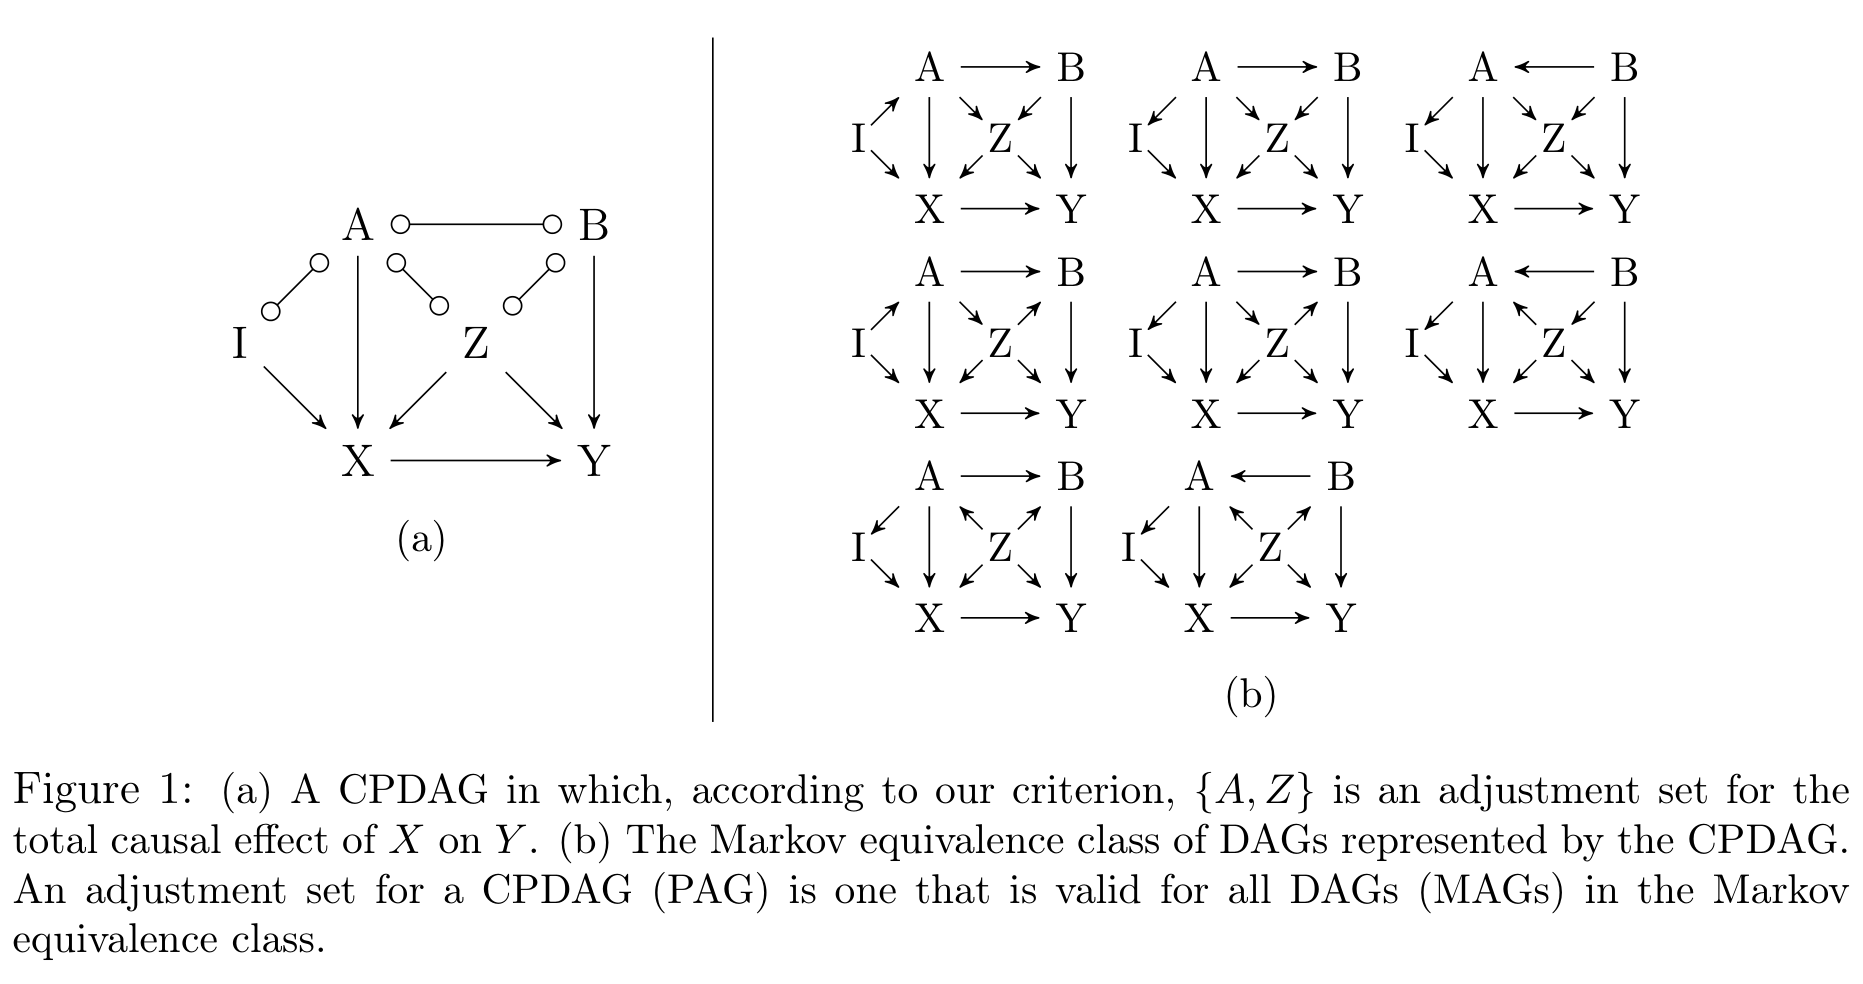
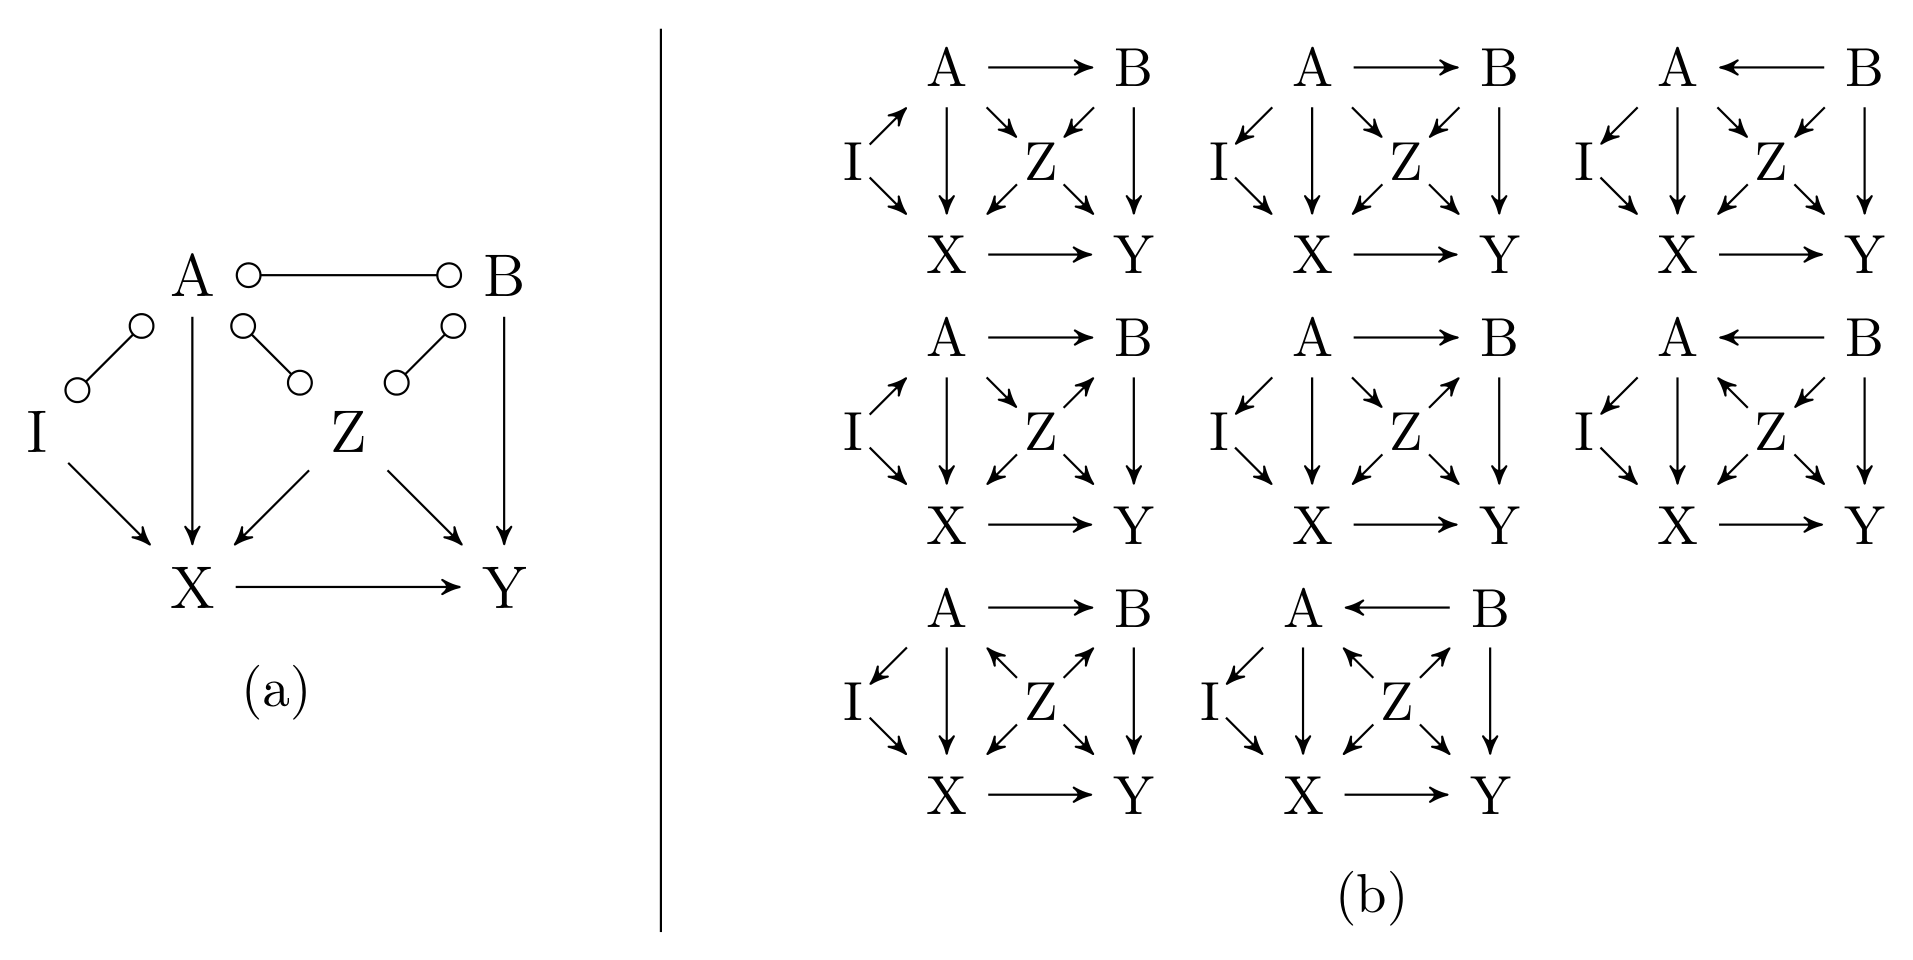
Re-crop figures in [Paper Review] Complete Graphical Characterization of Adjustment Sets
All 12 figures had been cropped with the paper's "Figure N:" caption text
underneath, which duplicated the post's own captions. Each is re-cropped
to the figure alone under the same filename. Figures 5 and 8, previously
about 830px wide, are re-extracted from the vector source at about
1800px. index.qmd is unchanged.

Every crop was checked against the PDF region and the old file: same
figure, all panels and labels present, no caption text. Rendered with
exit 0.

diff --git a/docs/posts/Causal/paper/Complete Graphical Characterization and Construction of Adjustment Sets in Markov Equivalence Classes of Ancestral Graphs/index.html b/docs/posts/Causal/paper/Complete Graphical Characterization and Construction of Adjustment Sets in Markov Equivalence Classes of Ancestral Graphs/index.html
@@ -2866,7 +2866,7 @@ window.Quarto = {
           <li class="sidebar-item">
   <div class="sidebar-item-container"> 
   <a href="../../../../posts/Causal/paper/Local Covariate Selection for Average Causal Effect Estimation/index.html" class="sidebar-item-text sidebar-link">
- <span class="menu-text">[Paper Review] Local Covariate Selection for Average Causal Effect Estimation without Pretreatment and Causal Suﬀiciency Assumptions</span></a>
+ <span class="menu-text">[Paper Review] Local Covariate Selection for Average Causal Effect Estimation without Pretreatment and Causal Sufficiency Assumptions</span></a>
   </div>
 </li>
           <li class="sidebar-item">
@@ -2902,7 +2902,7 @@ window.Quarto = {
           <li class="sidebar-item">
   <div class="sidebar-item-container"> 
   <a href="../../../../posts/Causal/paper/Transformers Can Do Bayesian Inference/index.html" class="sidebar-item-text sidebar-link">
- <span class="menu-text">[Paper Review] Transformers Can Do Bayesian Inference: Prior-Data Fitted Networks (PFN)</span></a>
+ <span class="menu-text">[Paper Review] Transformers Can Do Bayesian Inference</span></a>
   </div>
 </li>
           <li class="sidebar-item">
@@ -6351,8 +6351,8 @@ f(\mathbf{z}_N \mid \mathbf{y}_N) = f(\mathbf{z}_N \mid do(\mathbf{x}), \mathbf{
   </script>
 <nav class="page-navigation">
   <div class="nav-page nav-page-previous">
-      <a href="../../../../posts/Causal/paper/Local Covariate Selection for Average Causal Effect Estimation/index.html" class="pagination-link" aria-label="[Paper Review] Local Covariate Selection for Average Causal Effect Estimation without Pretreatment and Causal Suﬀiciency Assumptions">
-        <i class="bi bi-arrow-left-short"></i> <span class="nav-page-text">[Paper Review] Local Covariate Selection for Average Causal Effect Estimation without Pretreatment and Causal Suﬀiciency Assumptions</span>
+      <a href="../../../../posts/Causal/paper/Local Covariate Selection for Average Causal Effect Estimation/index.html" class="pagination-link" aria-label="[Paper Review] Local Covariate Selection for Average Causal Effect Estimation without Pretreatment and Causal Sufficiency Assumptions">
+        <i class="bi bi-arrow-left-short"></i> <span class="nav-page-text">[Paper Review] Local Covariate Selection for Average Causal Effect Estimation without Pretreatment and Causal Sufficiency Assumptions</span>
       </a>          
   </div>
   <div class="nav-page nav-page-next">
